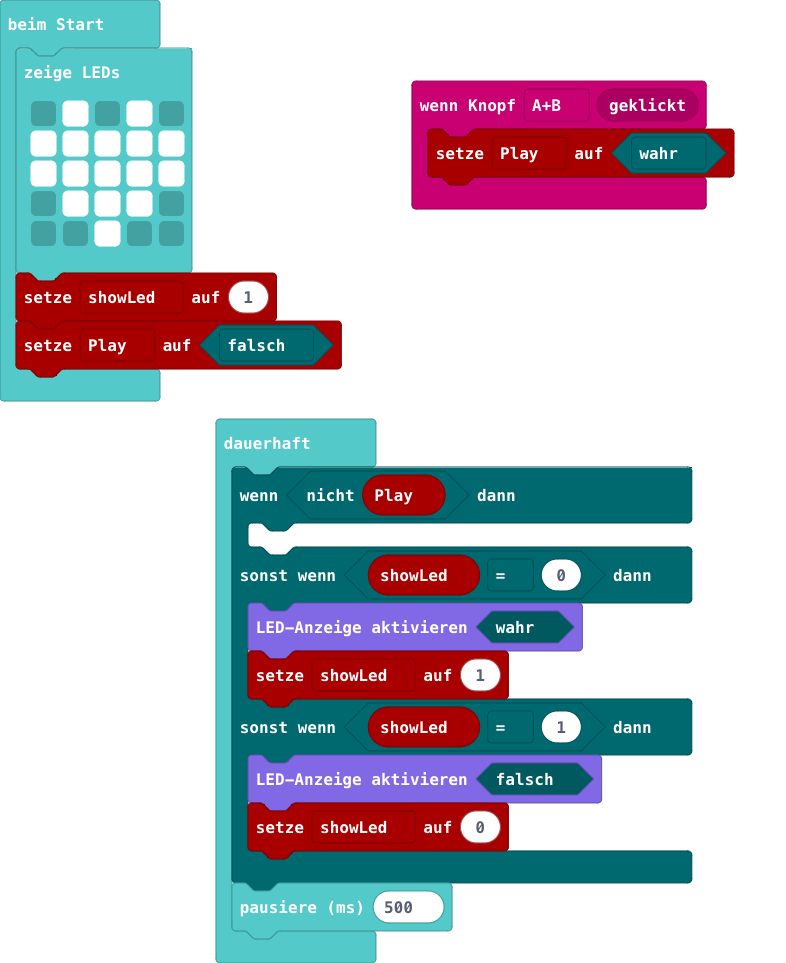
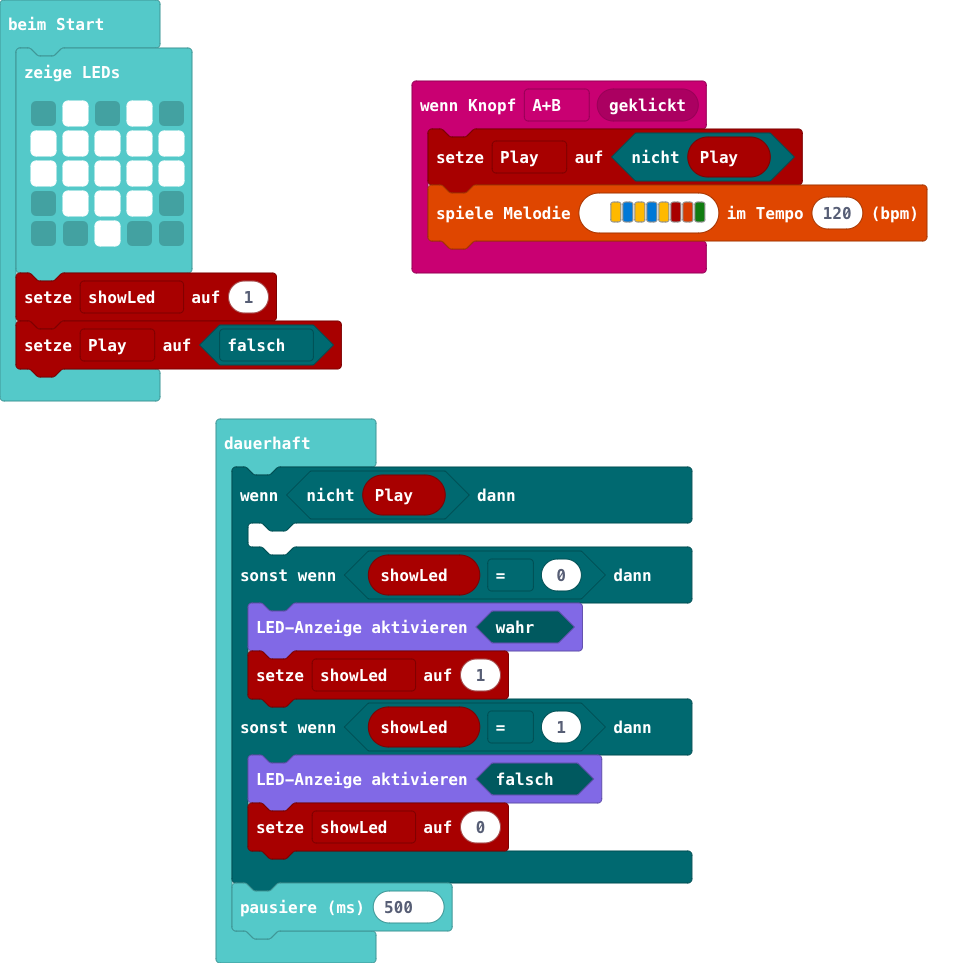
Aktualisiere main.blocks, main.ts

diff --git a/main.ts b/main.ts
@@ -1,5 +1,6 @@
 input.onButtonEvent(Button.AB, input.buttonEventClick(), function () {
-    Play = true
+    Play = !(Play)
+    music.playMelody("A E A E A C5 B G ", 120)
 })
 let Play = false
 basic.showLeds(`
